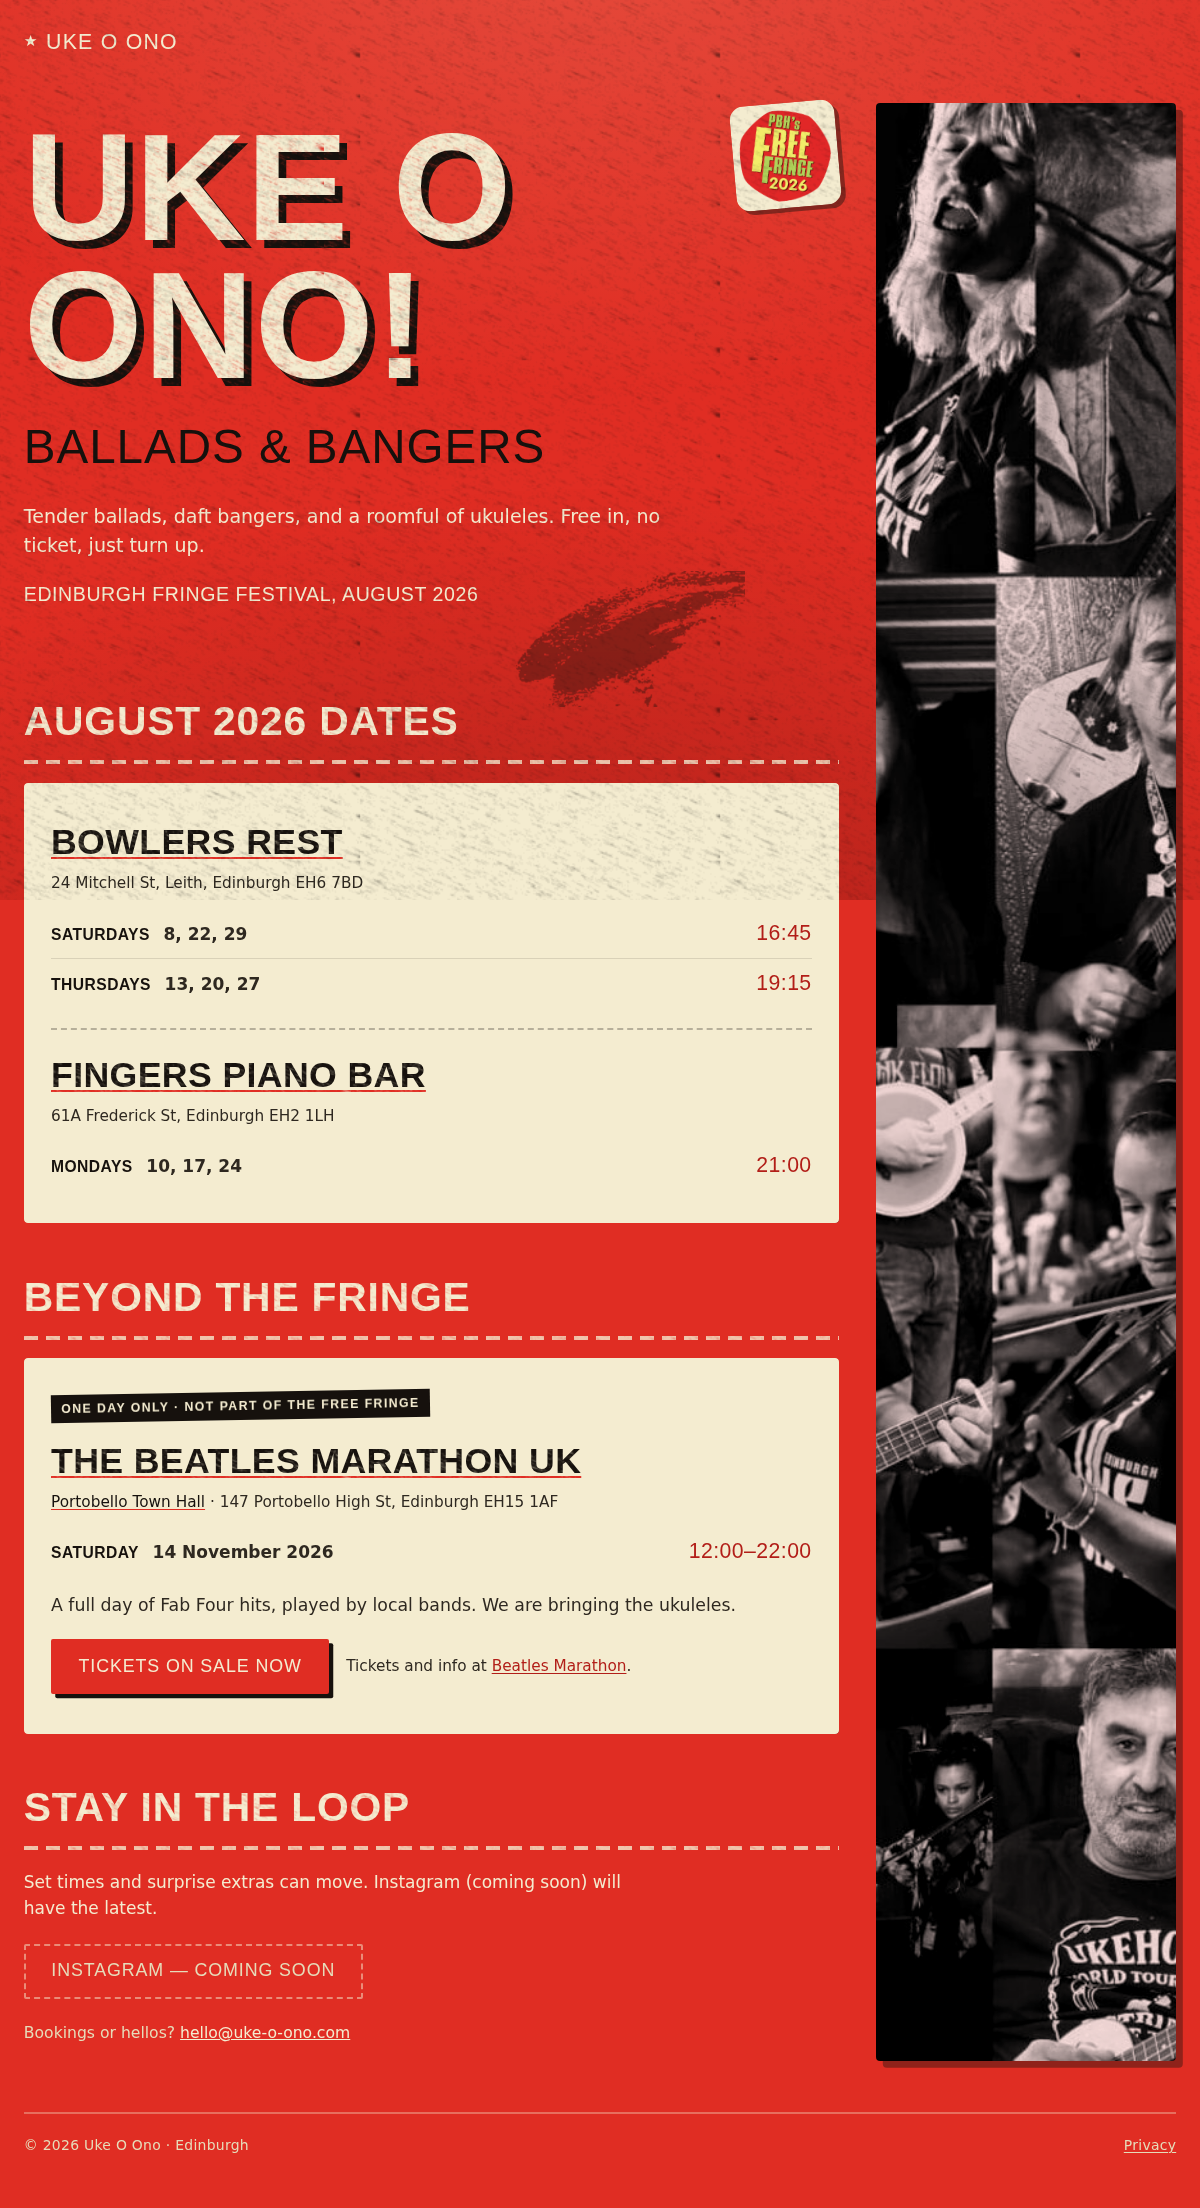
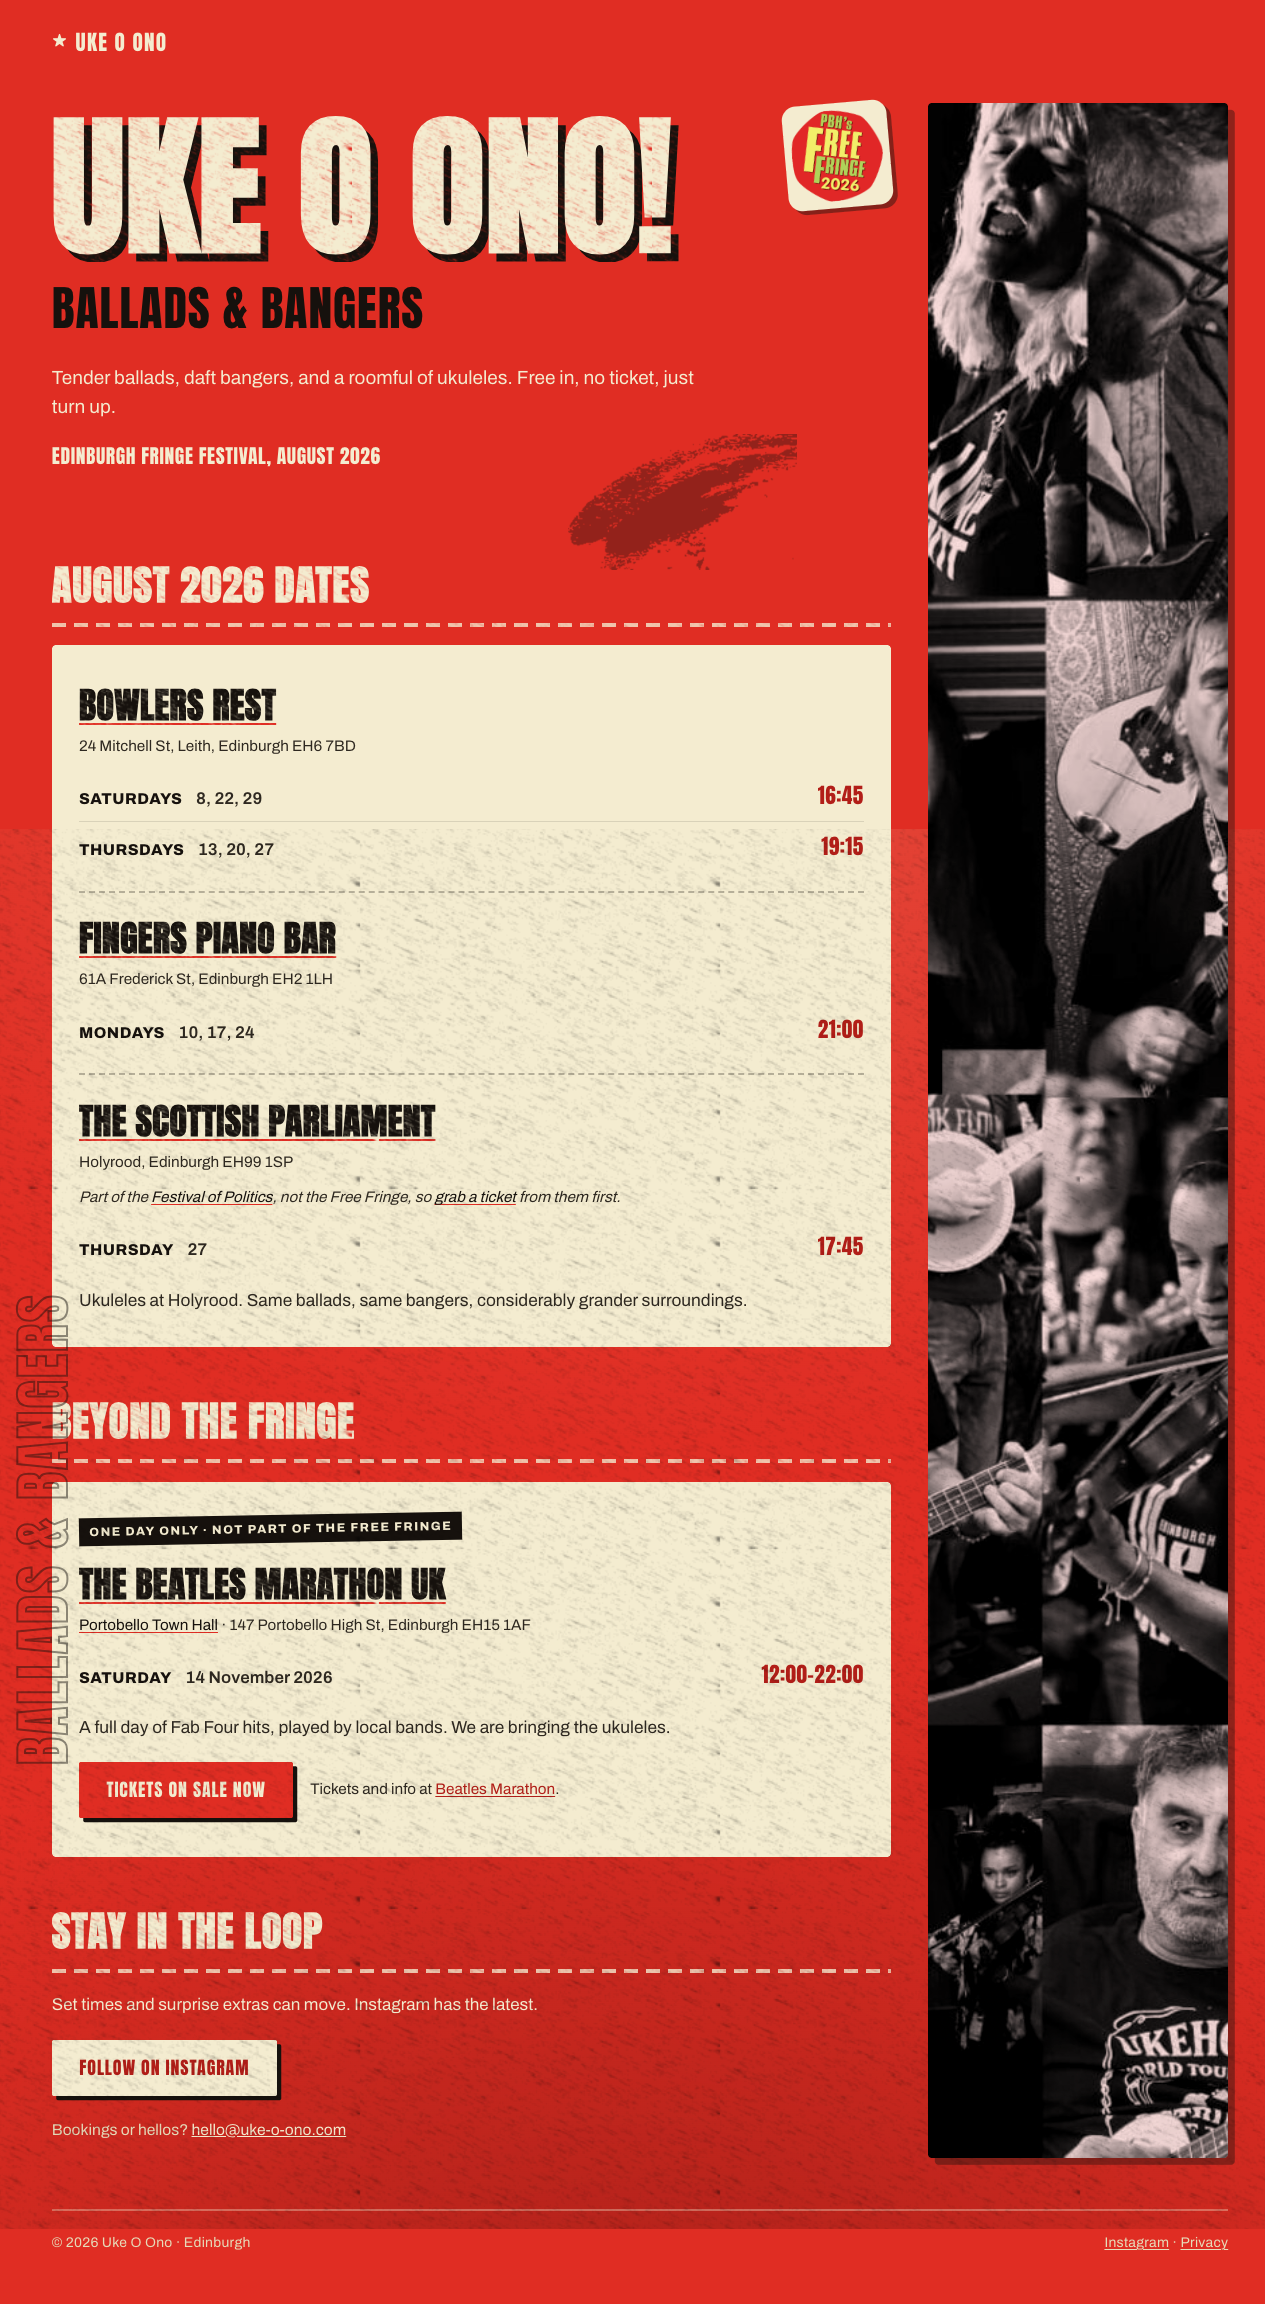
content: add Festival of Politics gig at Holyrood
Adds Thursday 27 August, 17:45 at The Scottish Parliament, part of the
Festival of Politics rather than PBH's Free Fringe.

It is an August date, so it belongs in the lineup list where a
Fringe-goer will look for it. But the Free Fringe framing does not
apply: the Festival of Politics is a separate festival and its events
are booked ahead. A plain lineup entry would have inherited that
framing and told search engines the gig was free with no ticket.

Lineup entries therefore take three optional fields, each independent:

- festival: overrides the Free Fringe as the schema.org superEvent
- ticketsUrl: marks the gig as booked ahead, which drops
  isAccessibleForFree and the zero-price offer, and points the offer
  at the booking page
- blurb: overrides the show blurb, which promises "no ticket"

Sessions also take an optional minutes to override the 50 minute Free
Fringe slot default. Left unset here pending the real set length.

The nine existing Free Fringe events render unchanged.

diff --git a/packages/site/_data/eventList.js b/packages/site/_data/eventList.js
@@ -1,7 +1,8 @@
 import site from "./site.json" with { type: "json" };
 
-// Free Fringe slots run roughly 50 minutes; used to derive an endDate so each
-// schema.org Event has both bounds (Google recommends endDate for events).
+// Default slot length, used to derive an endDate so each schema.org Event has
+// both bounds (Google recommends endDate for events). Free Fringe slots run
+// roughly 50 minutes; a session elsewhere can override it with `minutes`.
 const SLOT_MINUTES = 50;
 
 // Flatten the venue/session/date structure in site.json into one dated event
@@ -16,12 +17,18 @@ export default function () {
       for (const date of session.dates) {
         const day = String(date).padStart(2, "0");
         const [hour, minute] = session.time.split(":").map(Number);
-        const endTotal = hour * 60 + minute + SLOT_MINUTES;
+        const endTotal = hour * 60 + minute + (session.minutes ?? SLOT_MINUTES);
         const endTime = `${String(Math.floor(endTotal / 60)).padStart(2, "0")}:${String(endTotal % 60).padStart(2, "0")}`;
         events.push({
           venue: venue.venue,
           address: venue.address,
           mapUrl: venue.mapUrl,
+          // Both optional: `festival` overrides the Free Fringe as the parent
+          // event, `ticketsUrl` marks the gig as booked ahead rather than
+          // free in. They are independent, so keep them separate.
+          festival: venue.festival,
+          ticketsUrl: venue.ticketsUrl,
+          blurb: venue.blurb,
           // Edinburgh is on BST (UTC+1) throughout August.
           startDate: `${year}-${month}-${day}T${session.time}:00+01:00`,
           endDate: `${year}-${month}-${day}T${endTime}:00+01:00`,

diff --git a/packages/site/assets/styles.css b/packages/site/assets/styles.css
@@ -420,17 +420,26 @@ footer.site {
   text-underline-offset: 3px;
 }
 
-.venue-address {
+/* Sub-lines under a venue name: the address, and the note flagging a gig that
+   sits inside the August run but belongs to another festival, so the free-in,
+   no-ticket promise of the Free Fringe dates does not read as covering it. */
+.venue-address,
+.venue-note {
   margin: 0 0 0.7rem;
   color: var(--ink-soft);
   font-size: 0.9rem;
 }
 
-.venue-address a {
+.venue-address a,
+.venue-note a {
   color: var(--ink);
   text-decoration-color: var(--red);
   text-decoration-thickness: 1px;
   text-underline-offset: 2px;
+}
+
+.venue-note {
+  font-style: italic;
 }
 
 .session-list {
@@ -502,7 +511,9 @@ footer.site {
   transform: rotate(-1deg);
 }
 
-.special-blurb {
+/* A line of flyer copy under the times, on either kind of ticket stub. */
+.special-blurb,
+.venue-blurb {
   margin: 0.9rem 0 0;
   color: var(--ink-soft);
   font-size: 1.02rem;
